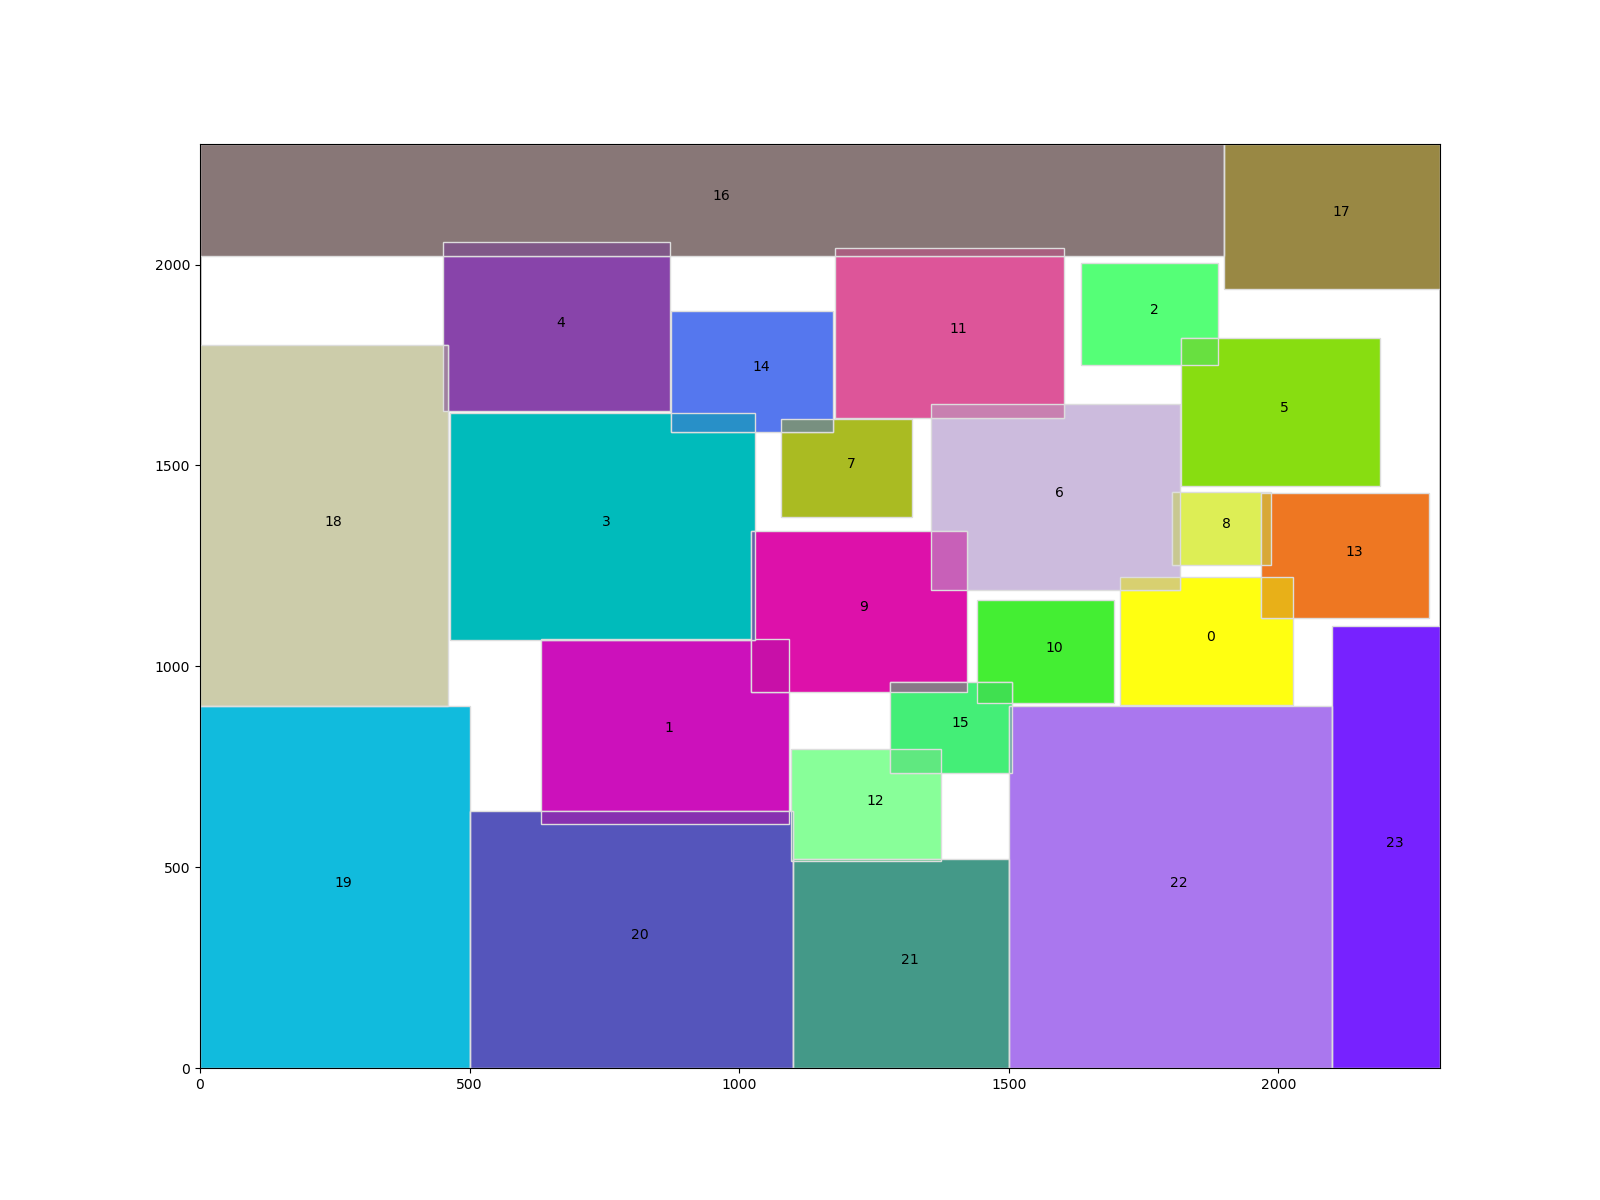
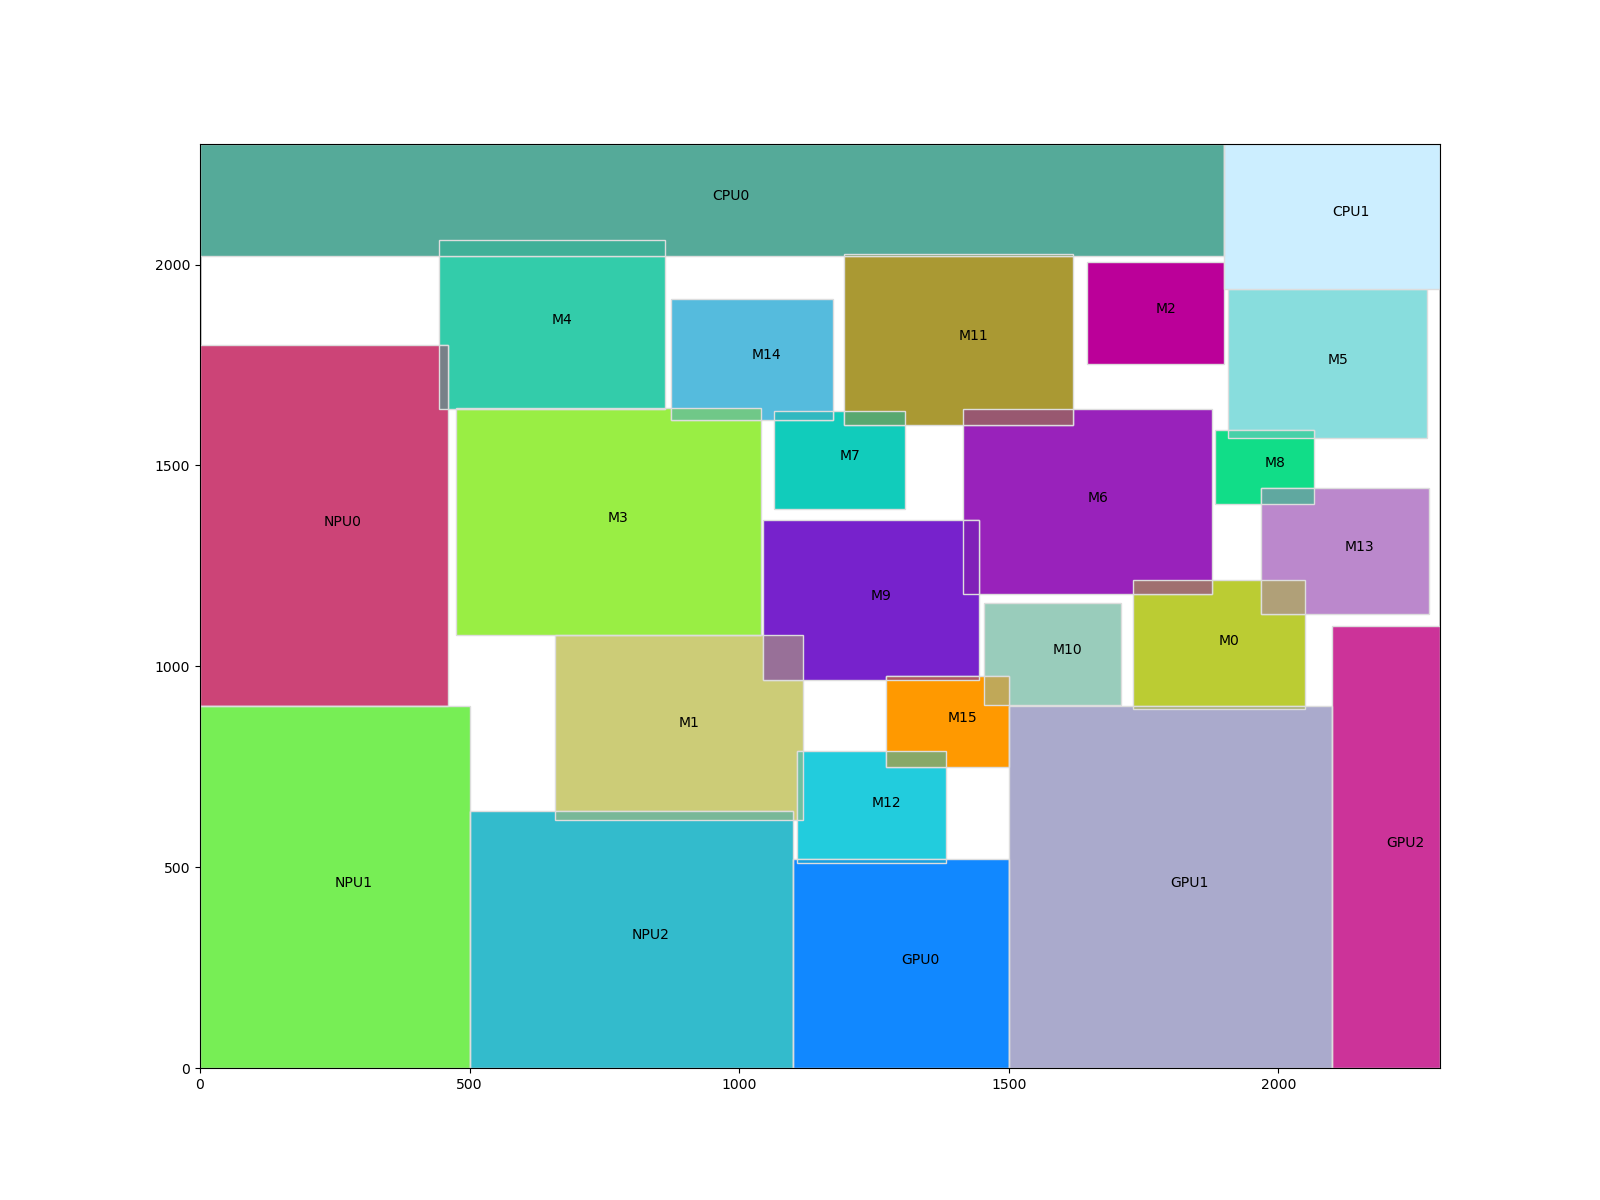
omit 3 overlap problem by increasing push force

diff --git a/src/LFLegaliser.cpp b/src/LFLegaliser.cpp
@@ -57,8 +57,6 @@ len_t LFLegaliser::getCanvasHeight() const {
     return this->mCanvasHeight;
 }
 
-//TODO: For cyuyang
-
 void LFLegaliser::translateGlobalFloorplanning(const PPSolver &solver) {
     // You could define the I/O of this function
     // To create a soft Tessera:
@@ -79,8 +77,7 @@ void LFLegaliser::translateGlobalFloorplanning(const PPSolver &solver) {
         else {
             len_t width = (len_t) std::ceil(std::sqrt(curModule->area / aspect_ratio));
             len_t height = (len_t) std::ceil(std::sqrt(curModule->area * aspect_ratio));
-            // ? which area should be filled ?
-            Tessera *newTess = new Tessera(tesseraType::SOFT, curModule->name, width * height,
+            Tessera *newTess = new Tessera(tesseraType::SOFT, curModule->name, curModule->area,
                 Cord(curModule->x - (len_t) width / 2, (len_t) curModule->y - height / 2), width, height);
             softTesserae.push_back(newTess);
         }
@@ -117,7 +114,6 @@ bool hasCycle3(std::vector< std::set<len_t> > graph, std::vector<bool> visited, 
 }
 
 
-//TODO: For cyuyang
 void LFLegaliser::detectfloorplanningOverlaps() {
     // If an overlap is detected, You should:
     // 1. Locate the overlap and crate a new Tile marking the overlap, the tile should include the spacing info and the voerlap Tessera idx
@@ -175,60 +171,13 @@ void LFLegaliser::detectfloorplanningOverlaps() {
     }
     */
 
-    // 2 overlapped
-    for ( int i = 0; i < test_data.size(); i++ ) {
-        bool isSoft = i < softTesserae.size();
-        int id = ( isSoft ) ? i : i - softTesserae.size();
-        Tessera *curTess = ( isSoft ) ? softTesserae[id] : fixedTesserae[id];
-        std::cout << curTess->getName() << std::endl;
-        Box curBox;
-        curBox.min_corner() = Point(curTess->TileArr[0]->getLowerLeft().x, curTess->TileArr[0]->getLowerLeft().y);
-        curBox.max_corner() = Point(curTess->TileArr[0]->getUpperRight().x, curTess->TileArr[0]->getUpperRight().y);
-        for ( int n : graph[i] ) {
-            bool isSoftOverlap = n < softTesserae.size();
-            int overlapId = ( isSoftOverlap ) ? n : n - softTesserae.size();
-            Tessera *overlapTess = ( isSoftOverlap ) ? softTesserae[overlapId] : fixedTesserae[overlapId];
-            Box overlapBox;
-            overlapBox.min_corner() = Point(overlapTess->TileArr[0]->getLowerLeft().x, overlapTess->TileArr[0]->getLowerLeft().y);
-            overlapBox.max_corner() = Point(overlapTess->TileArr[0]->getUpperRight().x, overlapTess->TileArr[0]->getUpperRight().y);
-            Box interectionBox;
-            bg::intersection(curBox, overlapBox, interectionBox);
-            len_t x = bg::get<bg::min_corner, 0>(interectionBox);
-            len_t y = bg::get<bg::min_corner, 1>(interectionBox);
-            len_t w = bg::get<bg::max_corner, 0>(interectionBox) - x;
-            len_t h = bg::get<bg::max_corner, 1>(interectionBox) - y;
-            for ( Tile *tile : curTess->OverlapArr ) {
-                Box overlap3Box;
-                overlap3Box.min_corner() = Point(tile->getLowerLeft().x, tile->getLowerLeft().y);
-                overlap3Box.max_corner() = Point(tile->getLowerLeft().x, tile->getLowerLeft().y);
-                Box interection3Box;
-                bg::intersection(overlapBox, overlap3Box, interection3Box);
-                if ( interection3Box.max_corner().x() == interection3Box.min_corner().x() && interection3Box.max_corner().y() == interection3Box.min_corner().y() ) {
-                    std::cout << "nothing overlap\n";
-                }
-                else {
-                    std::cout << "Overlapped Detected: ";
-                    std::cout << "(" << bg::get<bg::min_corner, 0>(interection3Box) << ", " << bg::get<bg::min_corner, 1>(interection3Box) << "), ";
-                    std::cout << "(" << bg::get<bg::max_corner, 0>(interection3Box) << ", " << bg::get<bg::max_corner, 1>(interection3Box) << ")\n";
-                }
-
-            }
-            Tile *overlapTile = new Tile(tileType::OVERLAP, Cord(x, y), w, h);
-            ( isSoft ) ? overlapTile->OverlapSoftTesseraeIdx.push_back(id)
-                : overlapTile->OverlapFixedTesseraeIdx.push_back(id);
-
-            ( isSoftOverlap ) ? overlapTile->OverlapSoftTesseraeIdx.push_back(overlapId)
-                : overlapTile->OverlapFixedTesseraeIdx.push_back(overlapId);
-
-            curTess->insertTiles(tileType::OVERLAP, overlapTile);
-        }
-    }
-
+    overlap3 = false;
     // 3 overlapped
     for ( int i = 0; i < test_data.size(); i++ ) {
         std::vector<bool> visited(test_data.size(), 0);
         int nodes[3] = { -1 };
         if ( hasCycle3(graph, visited, i, -1, 1, nodes) ) {
+            overlap3 = true;
             Box box[3];
             for ( int n = 0; n < 3; n++ ) {
                 int curNode = nodes[n];
@@ -238,21 +187,21 @@ void LFLegaliser::detectfloorplanningOverlaps() {
                 box[n].min_corner() = Point(curTess->TileArr[0]->getLowerLeft().x, curTess->TileArr[0]->getLowerLeft().y);
                 box[n].max_corner() = Point(curTess->TileArr[0]->getUpperRight().x, curTess->TileArr[0]->getUpperRight().y);
             }
-            Box interectionBox;
-            bg::intersection(box[0], box[1], interectionBox);
-            bg::intersection(interectionBox, box[2], interectionBox);
+            Box intersectionBox;
+            bg::intersection(box[0], box[1], intersectionBox);
+            bg::intersection(intersectionBox, box[2], intersectionBox);
             std::cout << "3 Modules Intersection: ";
-            std::cout << "(" << bg::get<bg::min_corner, 0>(interectionBox) << ", " << bg::get<bg::min_corner, 1>(interectionBox) << "), ";
-            std::cout << "(" << bg::get<bg::max_corner, 0>(interectionBox) << ", " << bg::get<bg::max_corner, 1>(interectionBox) << ")\n";
+            std::cout << "(" << bg::get<bg::min_corner, 0>(intersectionBox) << ", " << bg::get<bg::min_corner, 1>(intersectionBox) << "), ";
+            std::cout << "(" << bg::get<bg::max_corner, 0>(intersectionBox) << ", " << bg::get<bg::max_corner, 1>(intersectionBox) << ")\n";
             for ( int n = 0; n < 3; n++ ) {
                 int curNode = nodes[n];
                 bool isSoft = curNode < softTesserae.size();
                 int id = ( isSoft ) ? curNode : curNode - softTesserae.size();
                 Tessera *curTess = ( isSoft ) ? softTesserae[id] : fixedTesserae[id];
-                len_t x = bg::get<bg::min_corner, 0>(interectionBox);
-                len_t y = bg::get<bg::min_corner, 1>(interectionBox);
-                len_t w = bg::get<bg::max_corner, 0>(interectionBox) - x;
-                len_t h = bg::get<bg::max_corner, 1>(interectionBox) - y;
+                len_t x = bg::get<bg::min_corner, 0>(intersectionBox);
+                len_t y = bg::get<bg::min_corner, 1>(intersectionBox);
+                len_t w = bg::get<bg::max_corner, 0>(intersectionBox) - x;
+                len_t h = bg::get<bg::max_corner, 1>(intersectionBox) - y;
                 bool existed = false;
                 for ( Tile *tile : curTess->OverlapArr ) {
                     if ( tile->getLowerLeft().x == x && tile->getLowerLeft().y == y && tile->getWidth() == w && tile->getHeight() == h ) {
@@ -276,6 +225,73 @@ void LFLegaliser::detectfloorplanningOverlaps() {
             }
         }
     }
+
+    /*
+    for ( Tessera *curTess : softTesserae ) {
+        std::cout << curTess->getName() << ": " << curTess->OverlapArr.size() << std::endl;
+    }
+    for ( Tessera *curTess : fixedTesserae ) {
+        std::cout << curTess->getName() << ": " << curTess->OverlapArr.size() << std::endl;
+    }
+    */
+
+    // 2 overlapped
+    for ( int i = 0; i < test_data.size(); i++ ) {
+        bool isSoft = i < softTesserae.size();
+        int id = ( isSoft ) ? i : i - softTesserae.size();
+        Tessera *curTess = ( isSoft ) ? softTesserae[id] : fixedTesserae[id];
+        //std::cout << curTess->getName() << std::endl;
+        Box curBox;
+        curBox.min_corner() = Point(curTess->TileArr[0]->getLowerLeft().x, curTess->TileArr[0]->getLowerLeft().y);
+        curBox.max_corner() = Point(curTess->TileArr[0]->getUpperRight().x, curTess->TileArr[0]->getUpperRight().y);
+        for ( int n : graph[i] ) {
+            if ( n < i )
+                continue;
+            bool isSoftOverlap = n < softTesserae.size();
+            int overlapId = ( isSoftOverlap ) ? n : n - softTesserae.size();
+            Tessera *overlapTess = ( isSoftOverlap ) ? softTesserae[overlapId] : fixedTesserae[overlapId];
+            Box overlapBox;
+            overlapBox.min_corner() = Point(overlapTess->TileArr[0]->getLowerLeft().x, overlapTess->TileArr[0]->getLowerLeft().y);
+            overlapBox.max_corner() = Point(overlapTess->TileArr[0]->getUpperRight().x, overlapTess->TileArr[0]->getUpperRight().y);
+            Box intersectionBox;
+            bg::intersection(curBox, overlapBox, intersectionBox);
+            len_t x = bg::get<bg::min_corner, 0>(intersectionBox);
+            len_t y = bg::get<bg::min_corner, 1>(intersectionBox);
+            len_t w = bg::get<bg::max_corner, 0>(intersectionBox) - x;
+            len_t h = bg::get<bg::max_corner, 1>(intersectionBox) - y;
+            /*
+            for ( Tile *tile : curTess->OverlapArr ) {
+                Box overlap3Box;
+                overlap3Box.min_corner() = Point(tile->getLowerLeft().x, tile->getLowerLeft().y);
+                overlap3Box.max_corner() = Point(tile->getUpperRight().x, tile->getUpperRight().y);
+                Box interection3Box;
+                bg::intersection(intersectionBox, overlap3Box, interection3Box);
+                if ( interection3Box.max_corner().x() == interection3Box.min_corner().x() && interection3Box.max_corner().y() == interection3Box.min_corner().y() ) {
+                    std::cout << "nothing overlap\n";
+                }
+                else {
+                    std::cout << "Overlapped Detected: ";
+                    std::cout << "(" << bg::get<bg::min_corner, 0>(interection3Box) << ", " << bg::get<bg::min_corner, 1>(interection3Box) << "), ";
+                    std::cout << "(" << bg::get<bg::max_corner, 0>(interection3Box) << ", " << bg::get<bg::max_corner, 1>(interection3Box) << ")\n";
+                }
+
+            }
+            */
+            Tile *overlapTile = new Tile(tileType::OVERLAP, Cord(x, y), w, h);
+            ( isSoft ) ? overlapTile->OverlapSoftTesseraeIdx.push_back(id)
+                : overlapTile->OverlapFixedTesseraeIdx.push_back(id);
+
+            ( isSoftOverlap ) ? overlapTile->OverlapSoftTesseraeIdx.push_back(overlapId)
+                : overlapTile->OverlapFixedTesseraeIdx.push_back(overlapId);
+
+            curTess->insertTiles(tileType::OVERLAP, overlapTile);
+            overlapTess->insertTiles(tileType::OVERLAP, overlapTile);
+        }
+    }
+}
+
+bool LFLegaliser::has3overlap() {
+    return overlap3;
 }
 
 void LFLegaliser::splitFloorplanningOverlaps() {

diff --git a/src/main.cpp b/src/main.cpp
@@ -32,27 +32,40 @@ void printTile(const Tile &t) {
 
 int main(int argc, char const *argv[]) {
     Parser parser(argv[1]);
-    PPSolver solver;
-    LFLegaliser legaliser((len_t) parser.getDieWidth(), (len_t) parser.getDieHeight());
+    int pushForceList[3] = { 20, 200, 300 };
+    int pushScale = 0;
+    PPSolver *solver;
+    LFLegaliser *legaliser;
 
-    solver.readFromParser(parser);
+    do {
+        delete solver;
+        delete legaliser;
+        solver = new PPSolver;
+        legaliser = new LFLegaliser((len_t) parser.getDieWidth(), (len_t) parser.getDieHeight());
 
-    int iteration = 1000;
-    solver.setupPushForce(20);
-    for ( int phase = 1; phase <= 50; phase++ ) {
-        solver.setRadiusRatio(phase * 0.02);
-        for ( int i = 0; i < iteration; i++ ) {
-            solver.calcModuleForce();
-            solver.moveModule();
+        solver->readFromParser(parser);
+
+        int iteration = 1000;
+        solver->setupPushForce(pushForceList[pushScale++]);
+        for ( int phase = 1; phase <= 50; phase++ ) {
+            solver->setRadiusRatio(phase * 0.02);
+            for ( int i = 0; i < iteration; i++ ) {
+                solver->calcModuleForce();
+                solver->moveModule();
+            }
         }
-    }
 
-    //solver.currentPosition2txt("test.txt");
+        legaliser->translateGlobalFloorplanning(*solver);
+        legaliser->detectfloorplanningOverlaps();
+    } while ( legaliser->has3overlap() );
 
-    legaliser.translateGlobalFloorplanning(solver);
-    legaliser.detectfloorplanningOverlaps();
 
-    legaliser.visualiseArtpieceCYY("test.txt");
+
+    solver->currentPosition2txt("global_test.txt");
+
+    std::cout << "has 3 overlapped? " << legaliser->has3overlap() << std::endl;
+
+    legaliser->visualiseArtpieceCYY("transform_test.txt");
 
     return 0;
 }

diff --git a/src/LFLegaliser.h b/src/LFLegaliser.h
@@ -29,6 +29,7 @@ class LFLegaliser {
 private:
     len_t mCanvasWidth;
     len_t mCanvasHeight;
+    bool overlap3;
 
     bool checkTesseraInCanvas(Cord lowerLeft, len_t width, len_t height) const;
     bool checkTileInCanvas(Tile &tile) const;
@@ -53,7 +54,10 @@ public:
 
     void translateGlobalFloorplanning(const PPSolver &solver);
     void detectfloorplanningOverlaps();
+    bool has3overlap();
     void splitFloorplanningOverlaps();
+
+
 
 
 
